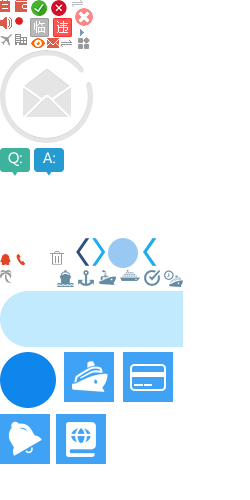
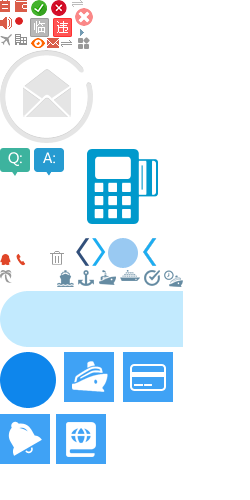
添加pos支付页面

Changed region(s): [[0.336, 0.3, 0.644, 0.45]]

diff --git a/采购商/用户中心/POS支付.html b/采购商/用户中心/POS支付.html
@@ -1,0 +1,85 @@
+<!DOCTYPE html>
+<html lang="en">
+<head>
+    <meta charset="UTF-8">
+    <title>天地行 采购商 POS支付</title>
+    <meta name="viewport" content="width=device-width, initial-scale=1.0" />
+     
+    <link rel="stylesheet" href="/static/css/smoothness/jquery-ui-1.10.3.custom.css" />
+    <link rel="stylesheet" href="/static/css/store_reset.css" media="all" />
+    <link rel="stylesheet" href="/static/css/store_v2/store.css"/>
+    <link rel="stylesheet" href="/static/css/kendo.common.min.css" />
+    <link rel="stylesheet" href="/static/css/store_ucenter.css" />
+    
+    <script type="text/javascript" src="/static/js/swfup/swfupload.js"></script>
+    <script type="text/javascript" src="/static/js/swfup/swfupload.queue.js"></script>
+    <script type="text/javascript" src="/static/js/swfup/handlers.js"></script>
+    <script type="text/javascript" src="/static/js/swfup/fileprogress_feedback.js"></script>
+    <script type="text/javascript" src="/static/js/jquery.min.js"></script>    
+    <script type="text/javascript" src="/static/js/kendo.web.js"></script>
+    <script type="text/javascript" src="/static/js/cultures/kendo.culture.zh-CN.min.js"></script>
+    <script type="text/javascript" src="/static/js/global.js"></script>    
+
+    <!--[if IE]>
+    <script src="/static/js/html5.js"></script>
+    <![endif]-->
+    <script src="/static/js/jquery-ui-1.10.3.custom.js"></script>    
+    <script type="text/javascript" src="/static/js/store/store.js"></script>
+
+    <style>
+        footer.main-footer{ color:#969696;  background-color:#EAEAEA; border-top:1px solid #CACACA;}
+        .main-footer center{ margin-top:20px; }
+        .main-footer a{  color:inherit; }
+        .main-footer .bar{ margin:0 5px;}
+        .main-footer .copyright{ padding-bottom: 20px;}
+    </style>
+</head>
+<body>
+<div class="headBG">
+    <header class="main-header">
+        <a class="logo" href="/"><h1>天地行</h1></a>
+        <span class="head-title">·反馈中心</span>
+    </header>
+</div>
+<section class="main-body">
+    <div class="bodyCont"> <!--bodyCont 开始-->
+        <div class="payInfo">
+            <table class="payInfoList">
+                <colgroup>
+                    <col width="220px"/>
+                    <col width="280px"/>
+                    <col width="350px"/>
+                </colgroup>
+                <tbody>
+                <tr>
+                    <td>交易金额：<b style=" font-size:20px; color:#ff6500;">28000.00</b>元</td>
+                    <td>产品类型：国内机票</td>
+                    <td>订单号：32432352554545</td>
+                </tr>
+                </tbody>
+            </table>
+        </div>
+        <div class="posContent">
+            <div class="posOrderNumber">
+                <i class="posPayIcon"></i>
+                <section class="rightPosContent">
+                    <div>POS支付，请输入支付单号：</div>
+                    <div class="weightFonts">149583758690485</div>
+                    <div>
+                        <a href="javascript:void(0);">返回商户</a>
+                    </div>
+                </section>
+            </div>
+        </div>
+    </div>
+</section>
+<footer class="main-footer">
+    <center class="copyright">
+        Copyright &copy; 2012 天地行 All Rights Reserved.  &nbsp;&nbsp;&nbsp;   沪ICP备08101503号 
+    </center>
+</footer>
+</div>
+
+</body>
+</html>
+

diff --git a/static/css/store_ucenter.css b/static/css/store_ucenter.css
@@ -1,3 +1,8 @@
+.main-body{
+    width: 980px;
+    margin: 10px auto;
+    min-height: 400px;
+}
 /* 采购商/用户中心 by shaotian.hu */
 .tab_change li em{
     float:left;
@@ -865,6 +870,9 @@ i.ico_shengcangguidign{ background-position: 0 -760px; width: 34px; height: 33px
 .payWay .posPayment label:hover,
 .payWay .posPayment .currentWay{
     border:1px solid #f1634c;
+}
+.posPayment .orangeFonts{
+    color: #ff6500;
 }
 
 .changeWay .posPayment .ybzf { 
@@ -4200,7 +4208,38 @@ div.addTitleStyle{
     color: #999;
 }
 
-
-
-
-
+/*  pos支付 start  */
+.posContent{ 
+    background:#fff; 
+    padding:100px 15px; 
+    color:#636363;
+}
+.posContent .posOrderNumber{
+    text-align: center;
+    position: relative;    
+}
+.posOrderNumber .rightPosContent{
+    text-align: left;
+    display: inline-block;
+    padding-left: 100px;
+}
+.posContent .posOrderNumber div{
+    margin: 10px 0;
+    font-size: 14px;
+}
+.posContent .posOrderNumber .weightFonts{
+    font-weight: bold;
+    font-size: 30px;
+    color: #333;
+}
+.posOrderNumber .posPayIcon{
+    display: inline-block;
+    vertical-align: middle;
+    width: 71px;
+    height: 76px;
+    background: url("../images/store/smallPic.png") no-repeat -87px -148px;
+    position: absolute;
+    left: 30%;
+    top: 10%;
+}
+/*  pos支付 end  */

diff --git a/采购商/用户中心/支付.html b/采购商/用户中心/支付.html
@@ -221,6 +221,9 @@
                       <div class="posPayment">
                             <em class="payStyleTitle">POS支付</em> 
                             <label><input type="radio" name="posPay" /><i class="ybzf"></i></label>
+                            <span>
+                                金额：1020.08元（包括<em class="orangeFonts">手续费2.50元</em>）
+                            </span>
                         </div>
                    </li>
                    <li id="offline_pay">
